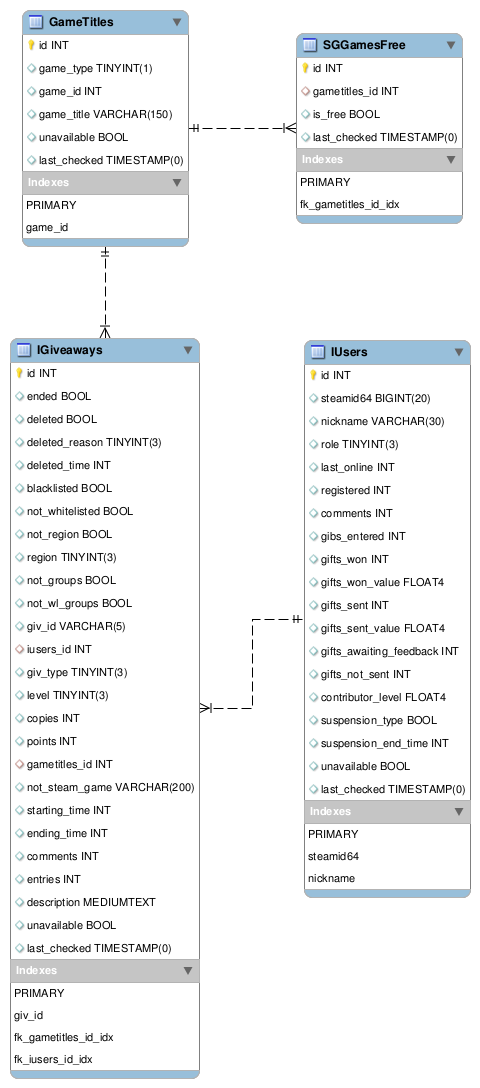
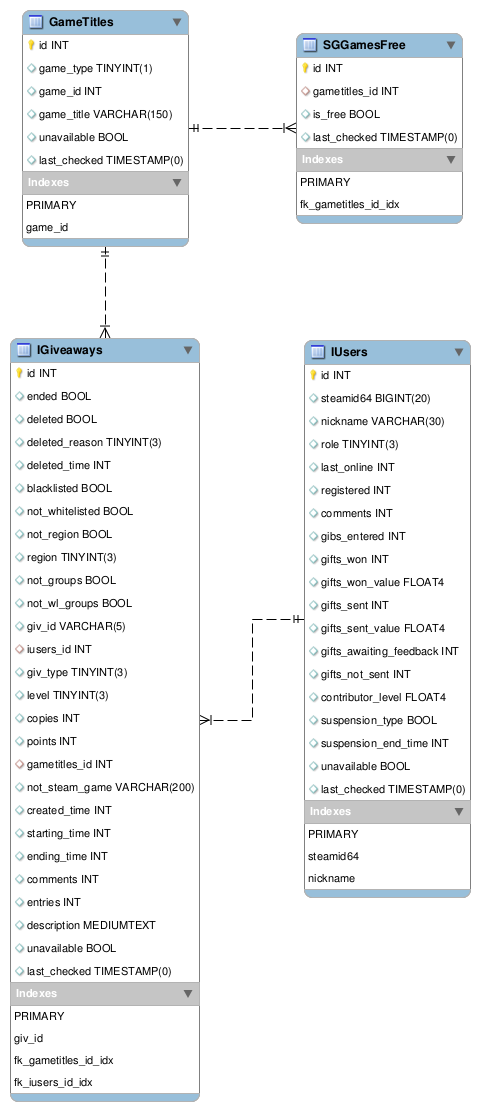
Reflect changes in commit 053b651a05cd825b567ed257705ce2788ab4cd04
On commit 053b651a05cd825b567ed257705ce2788ab4cd04 the PHP code was changed to accept and parse non-started giveaways correctly, which required a change in the DB schema, that is now reflected here as well, and in the documentation too.

diff --git a/documentation/igiveaways.html b/documentation/igiveaways.html
@@ -48,8 +48,9 @@
 	<li class="keys-list"><b>points</b>: Integer. Contains the points value of the giveaway.</li>
 	<li class="keys-list"><b>comments</b>: Integer. Contains the number of comments on the giveaway.</li>
 	<li class="keys-list"><b>entries</b>: Integer. Contains the number of entries on the giveaway.</li>
-	<li class="keys-list"><b>starting_time</b>: Integer. Contains the Unix timestamp of when the giveaway starts.</li>
-	<li class="keys-list"><b>ending_time</b>: Integer. Contains the Unix timestamp of when the giveaway ends.</li>
+	<li class="keys-list"><b>created_time</b>: Integer. Contains the Unix timestamp of when the giveaway was created.</li>
+	<li class="keys-list"><b>starting_time</b>: Integer. Contains the Unix timestamp of when the giveaway starts. Will be <code>null</code> if the giveaway started immediately or if it didn't but the API didn't check it until it started.</li>
+	<li class="keys-list"><b>ending_time</b>: Integer. Contains the Unix timestamp of when the giveaway ends. Will be <code>null</code> if the giveaway hasn't started yet.</li>
 	<li class="keys-list"><b>description</b>: String. Contains the the description in HTML format, that is, a string of HTML of exactly what the user wrote on the description.</li>
 	<li class="keys-list"><b>game_id</b>: Integer. Contains the Steam ID of the game being given away if it's a Steam game, <code>null</code> otherwise.</li>
 	<li class="keys-list"><b>game_type</b>: Integer. Contains the type of game, or <code>null</code> if the game being given away is not on Steam. Check the <a class="generic-link" href="https://github.com/Sighery/steamgifts-api/blob/master/translations/game-types.json" target="_blank">translation dictionary of game_type</a> for more information.</li>
